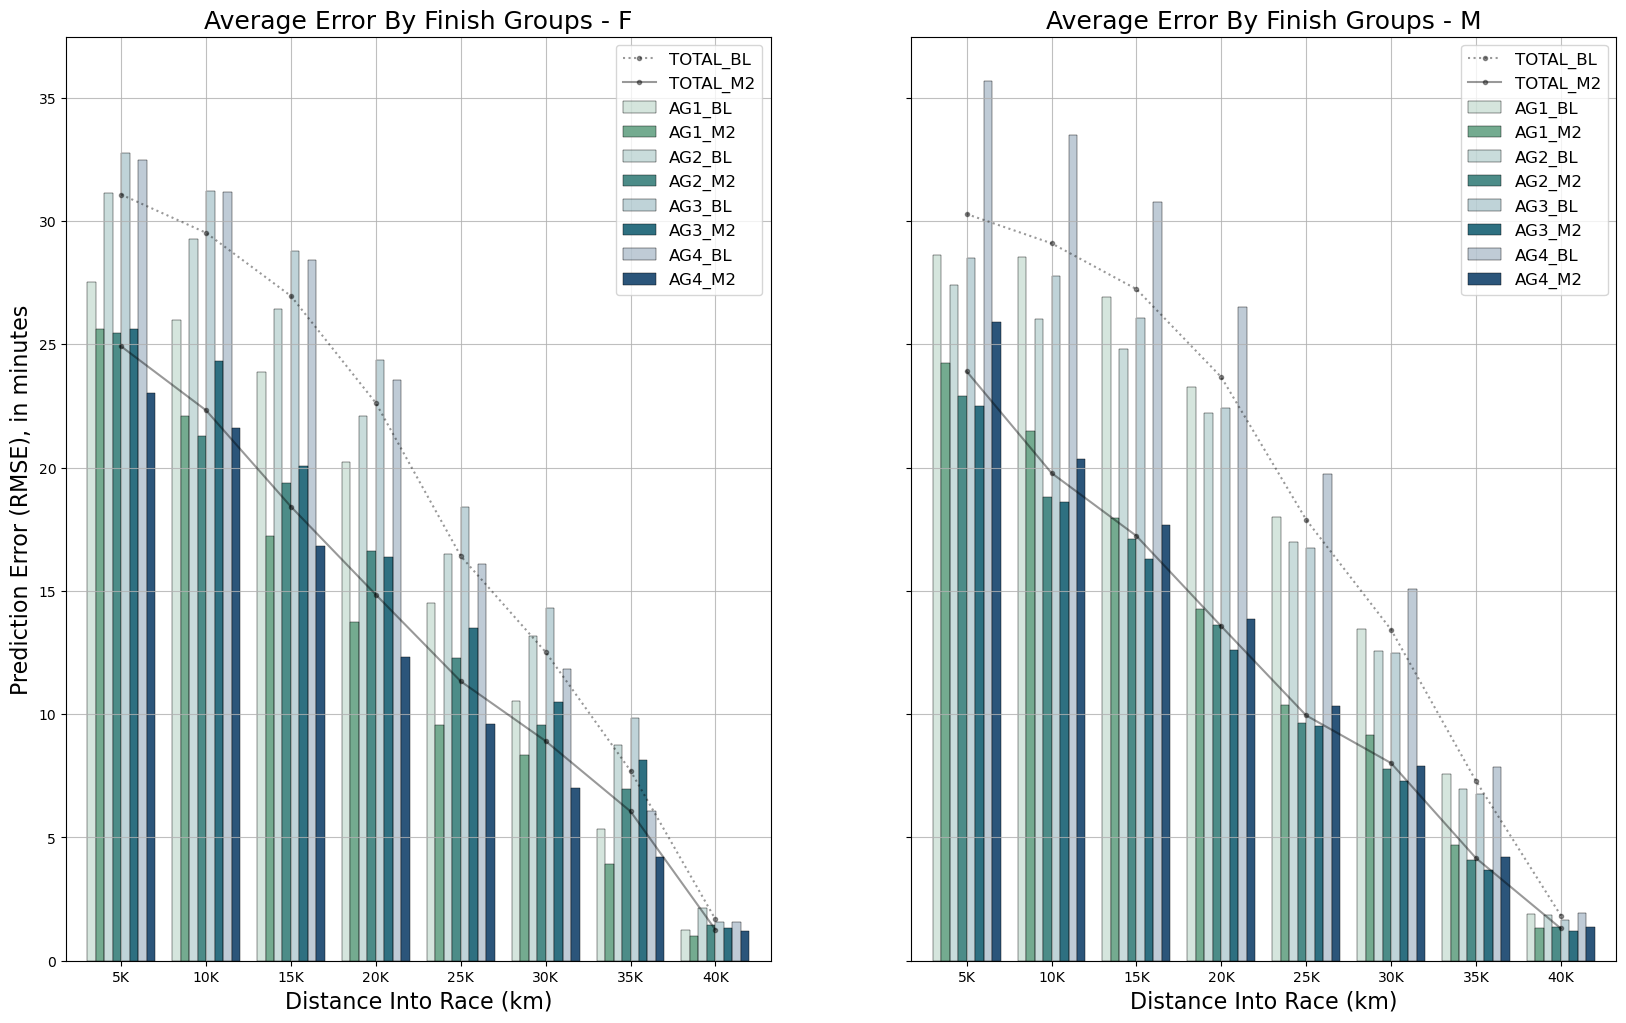
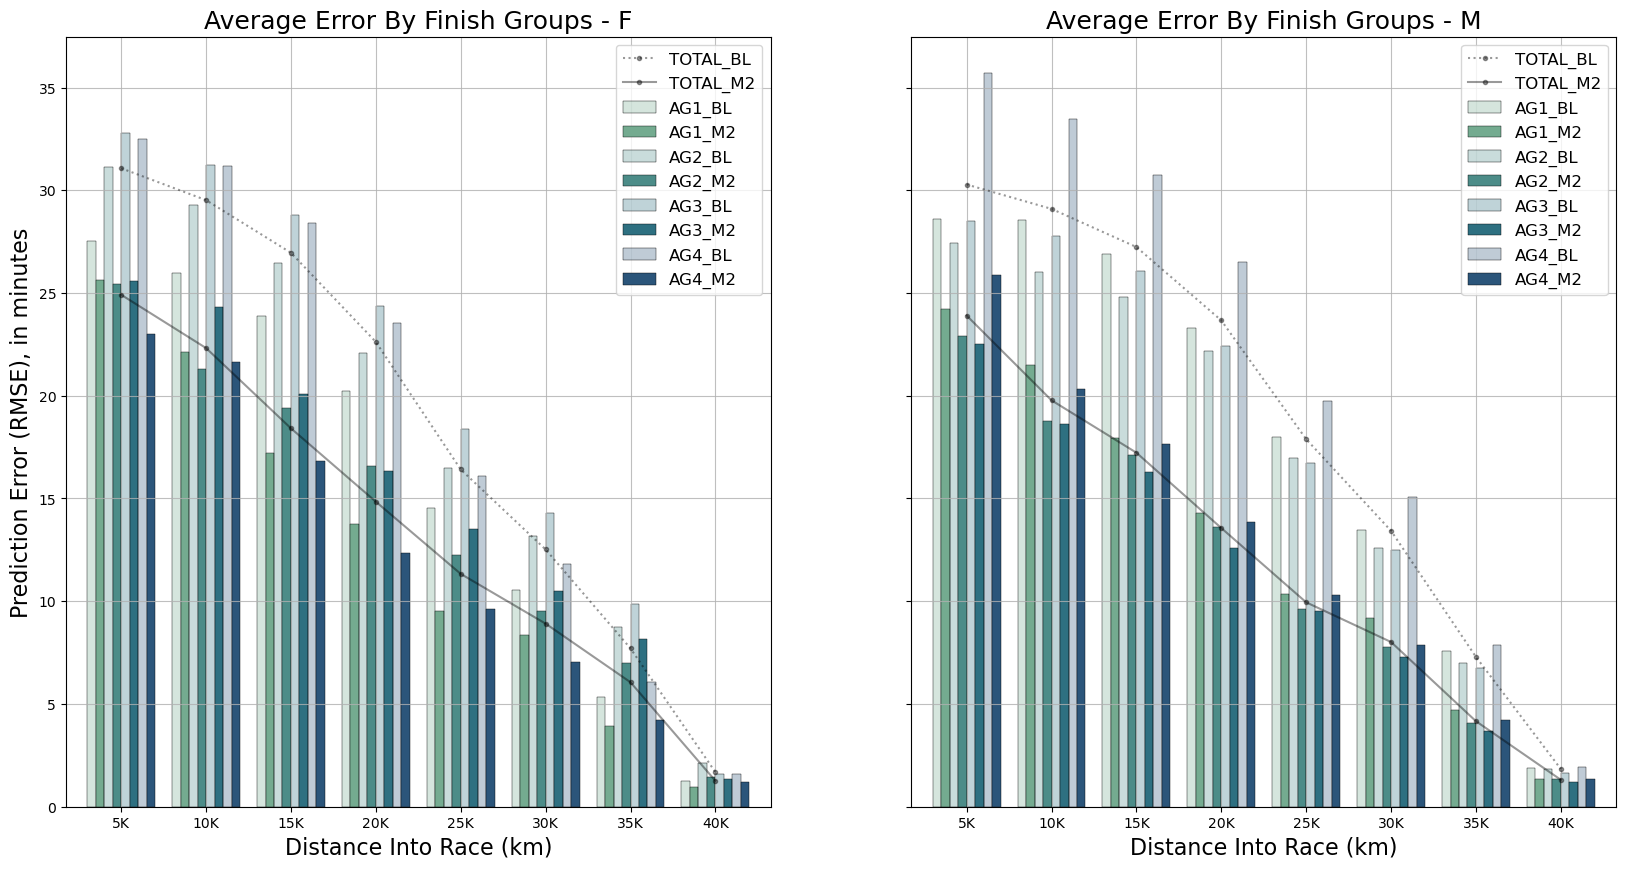
Update height of age/gender plot

diff --git a/plots.py b/plots.py
@@ -163,7 +163,7 @@ def plot_finish_age_gender(test_data, model: str, baseline: str, num=4, overall=
                            save_name: str = "bos", palette="viridis", grouping="age"):
     """Create RMSE plot grouped by age group, for each gender"""
     fig, ax = plt.subplots(ncols=2, sharey=True)
-    fig.set_figheight(12)
+    fig.set_figheight(10)
     fig.set_figwidth(20)
     mks = ["5K", "10K", "15K", "20K", "25K", "30K", "35K", "40K"]
 
